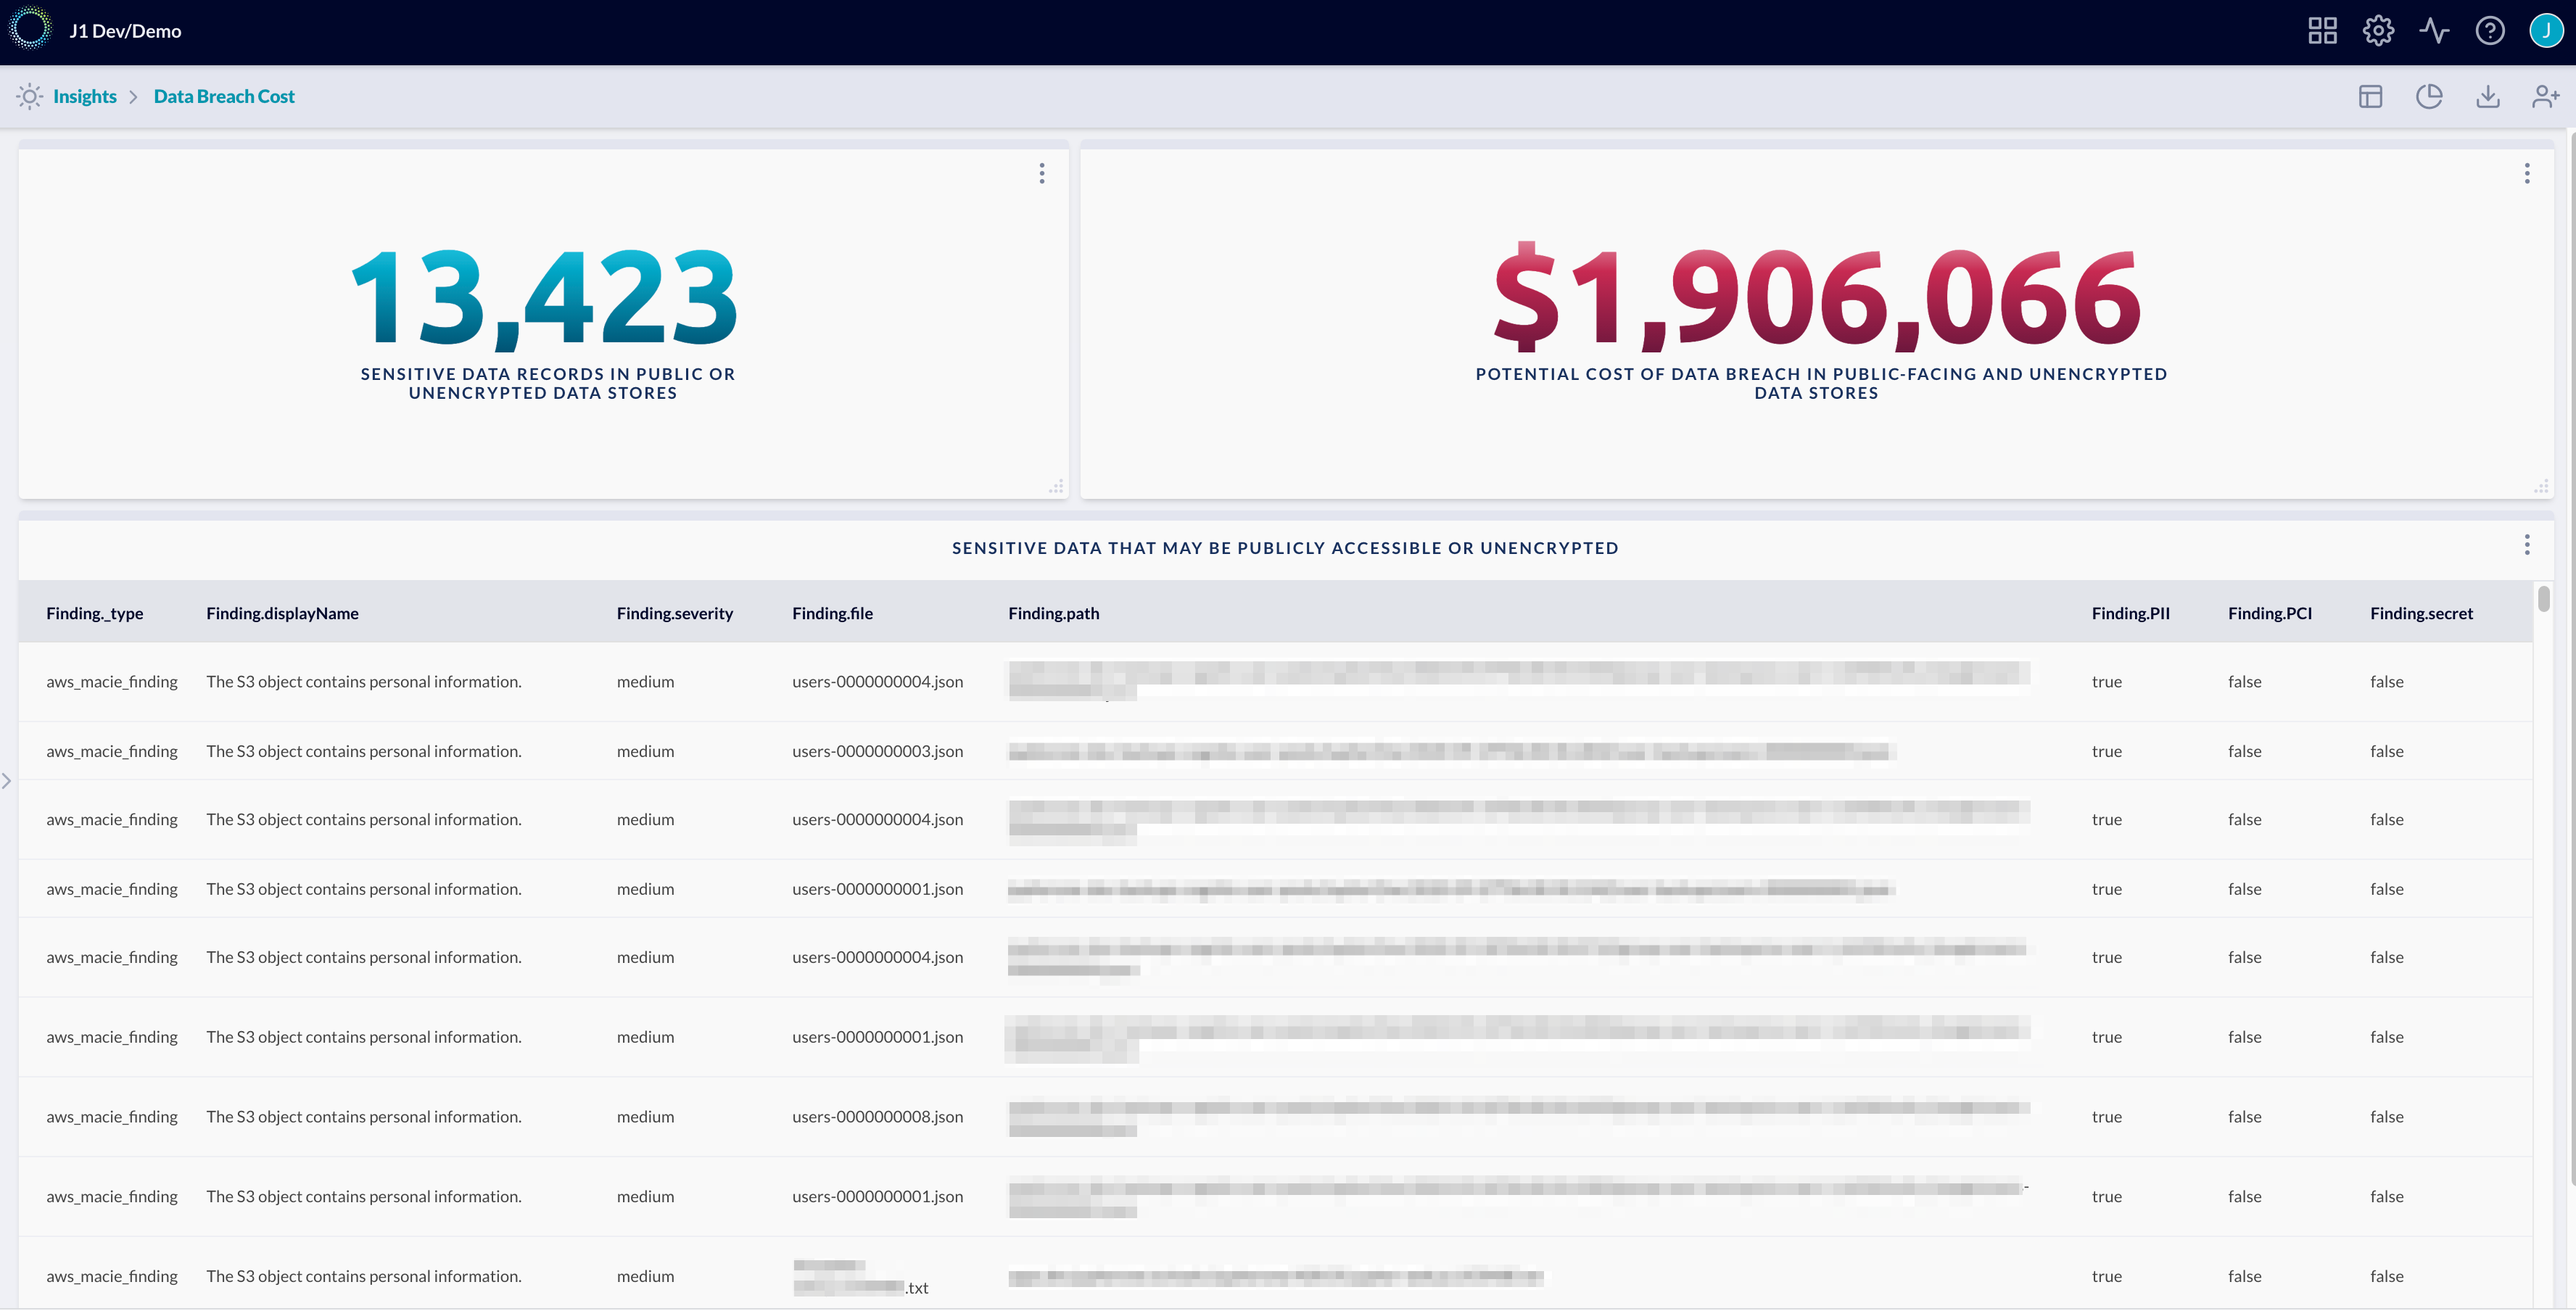
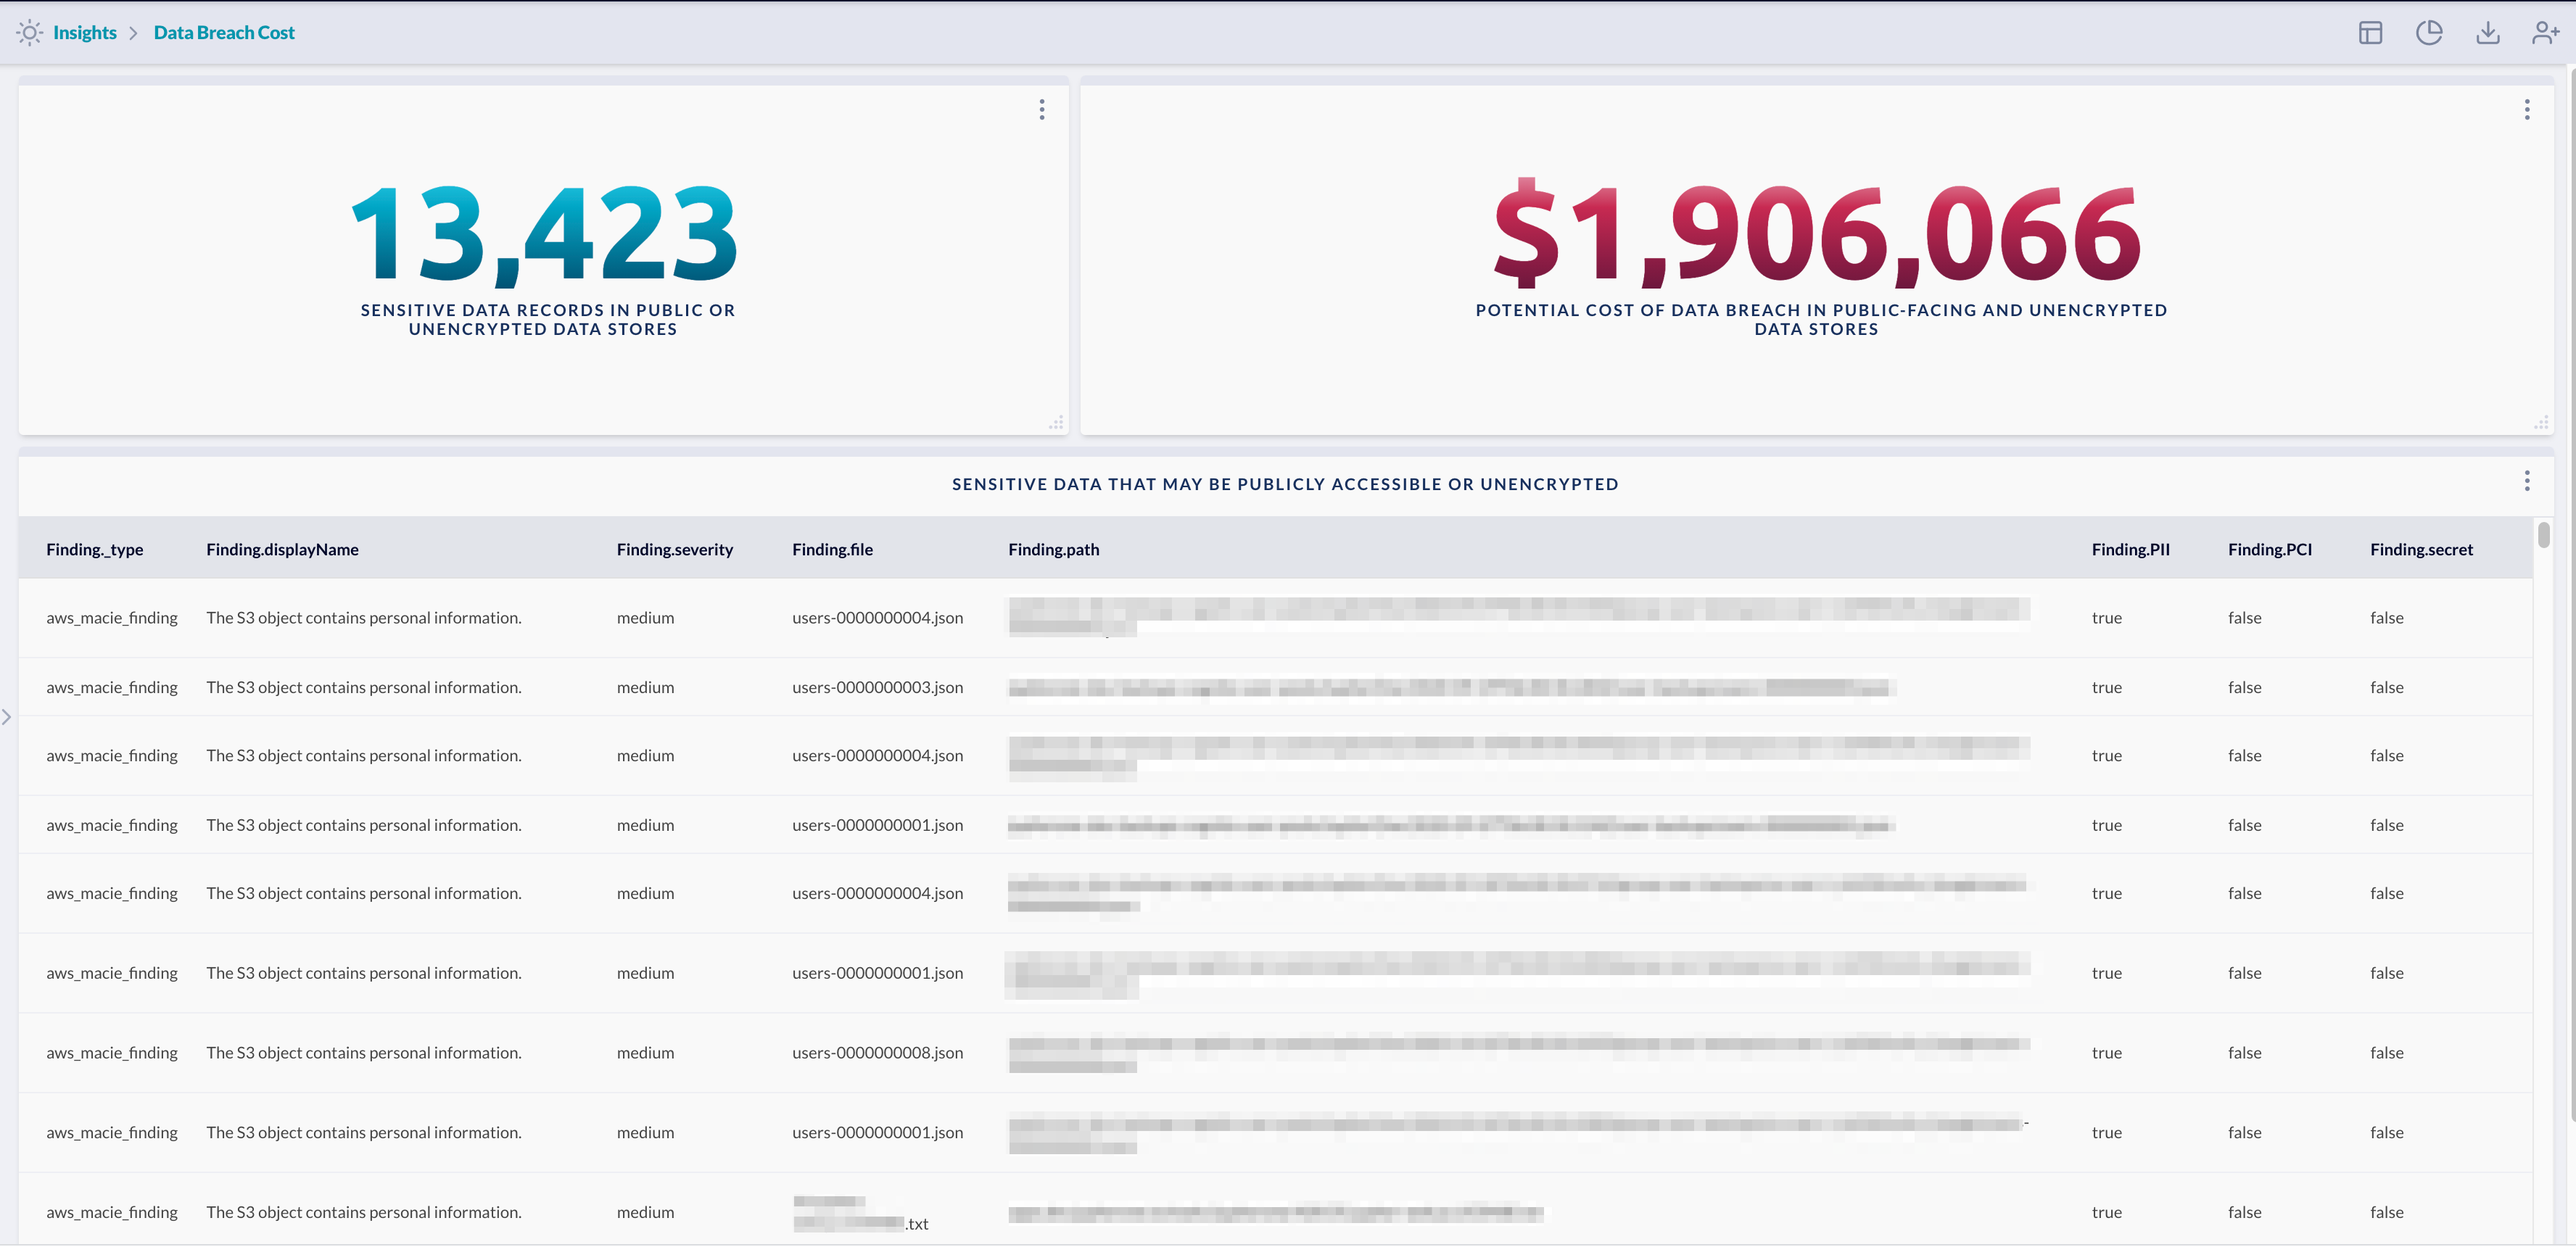
add screenshots and update readme

diff --git a/README.md b/README.md
@@ -3,31 +3,102 @@
 This repo contains a set of sample dashboards in JSON format can be easily
 imported into JupiterOne Insights app.
 
+---
+
 ## AWS Accounts
 
-description...
+![aws-accounts](screenshots/aws-accounts.png)
 
-> Prerequisite: This requires AWS integrations and works best with multiple AWS
+Show AWS master accounts, sub-accounts, as well as validated/unvalidated
+external accounts discovered by JupiterOne via analysis of IAM policies and trusts.
+
+> Prerequisite: 
+>
+> This requires AWS integrations and works best with multiple AWS
 > accounts configured using AWS Organizations.
 
+---
 
 ## Data Breach Cost
 
-description...
+![data-breach-costs](screenshots/data-breach-cost.png)
 
-> Prerequisite: This requires a DLP service to be enabled and integrated, such
-> as Amazon Macie.
+Show sensitive data discovery findings from publicly accessible or unencrypted data stores, 
+and use a formula to calculate the potential cost if based on the number of sensitive data records
+that could be exposed.
 
-![screenshot-data-breach-costs](screenshots/data-breach-cost.png)
+> Prerequisite: 
+>
+> This requires a DLP service to be enabled and integrated, such as Amazon Macie.
+
+---
+
+## Development
+
+![development](screenshots/development.png)
+
+Show secure development related metrics, including repo counts by project, top open pull requests
+by developer, pull requests with self-approved/unapproved commits, and pull requests with commits
+made by unknown/unvalidated developers.
+
+> Prerequisite: 
+>
+> This requires integrations with GitHub or GitLab or Bitbucket. Additionally, in order to correctly
+> identify known developers, an IdP/SSO integration such as Okta, Google, or Azure AD is needed.
+
+---
+
+## High Risk Assets
+
+![high-risk-assets](screenshots/high-risk-assets.png)
+
+Show vulnerability findings associated with production and Internet-facing systems,
+non-public data stores with public access, and public data stores containing sensitive data.
+
+> Prerequisite: 
+>
+> This requires cloud infrastruction integrations such as AWS, Azure, and Google Cloud.
+
+---
+
+## Resource Classification 
+
+![resource-classification](screenshots/resource-classification.png)
+
+Show various resources by classification and unclassified resources. This helps establish good
+data classification and configuration hygiene. Good baseline hygiene enables cleaner data and
+therefore faster operational decisions can be made based on the data.
+
+> Prerequisite: 
+>
+> This requires cloud infrastruction integrations such as AWS, Azure, and Google Cloud.
+
+---
+
+## Risk Register
+
+![risk-register](screenshots/risk-register.png)
+
+Show counts of documented risks from risk assessments based on their current status, and a listing 
+of currently open risks.
+
+> Prerequisite: 
+>
+> The risk records are ingested from either a specific Jira project, or can be entered directly into
+> JupiterOne via the UI, API, or JSON upload.
+
+---
 
 ## Vendor Management
+
+![vendor-mgmt](screenshots/vendor-mgmt.png)
 
 Show metrics related to current Vendors, and their validation state. This can be
 helpful to maintain a registry of Vendors your company interacts with, and alert
 on newly discovered, unvalidated vendors.
 
-> Prerequisite: This requires one or more configured integrations, which create
+> Prerequisite: 
+> 
+> This requires one or more configured integrations, which create
 > Vendor entities. It also assumes you're using an IdP or SSO service (such as
 > Google GSuite) that issues OAuth tokens against third-party Vendor apps.
-
-
